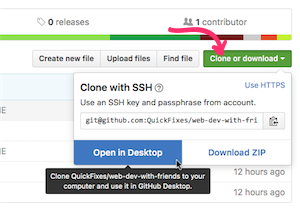
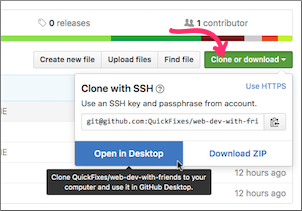
Add borders around screenshots

diff --git a/README.md b/README.md
@@ -90,9 +90,13 @@ Then browse to this repository (`web-dev-with-friends`)
 After that, you can right click on the repository in the left panel of the
 GitHub GUI, and choose "Open in Git Shell." This gets you a real Unix-type
 shell, and at that point you can basically follow any of the Unixy instructions
-above. If you do any Git commands, though (say, `git pull`), you'll have to
-input your GitHub credentials, which is bad for lazy people, so it might help
-to study up on SSH public-key authentication and `ssh-agent`
+above.
+
+![Opening a Bash shell in GitHub for Windows](img/git_shell.jpg)
+
+If you do any Git commands in this shell though (say, `git pull`), you'll have
+to input your GitHub credentials, which is bad for lazy people, so it might
+help to study up on SSH public-key authentication and `ssh-agent`
 ([guide][sshagent]).
 
 ### Detailed instructions for macOS (née OS X)
